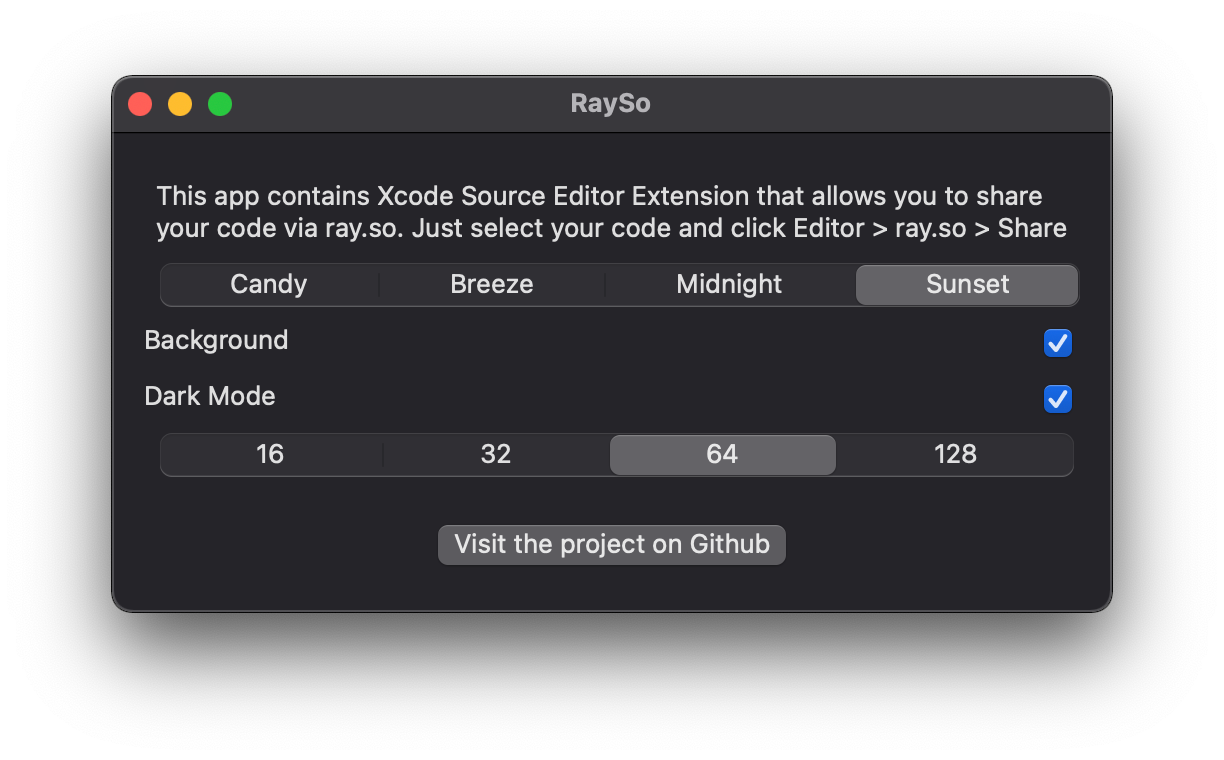
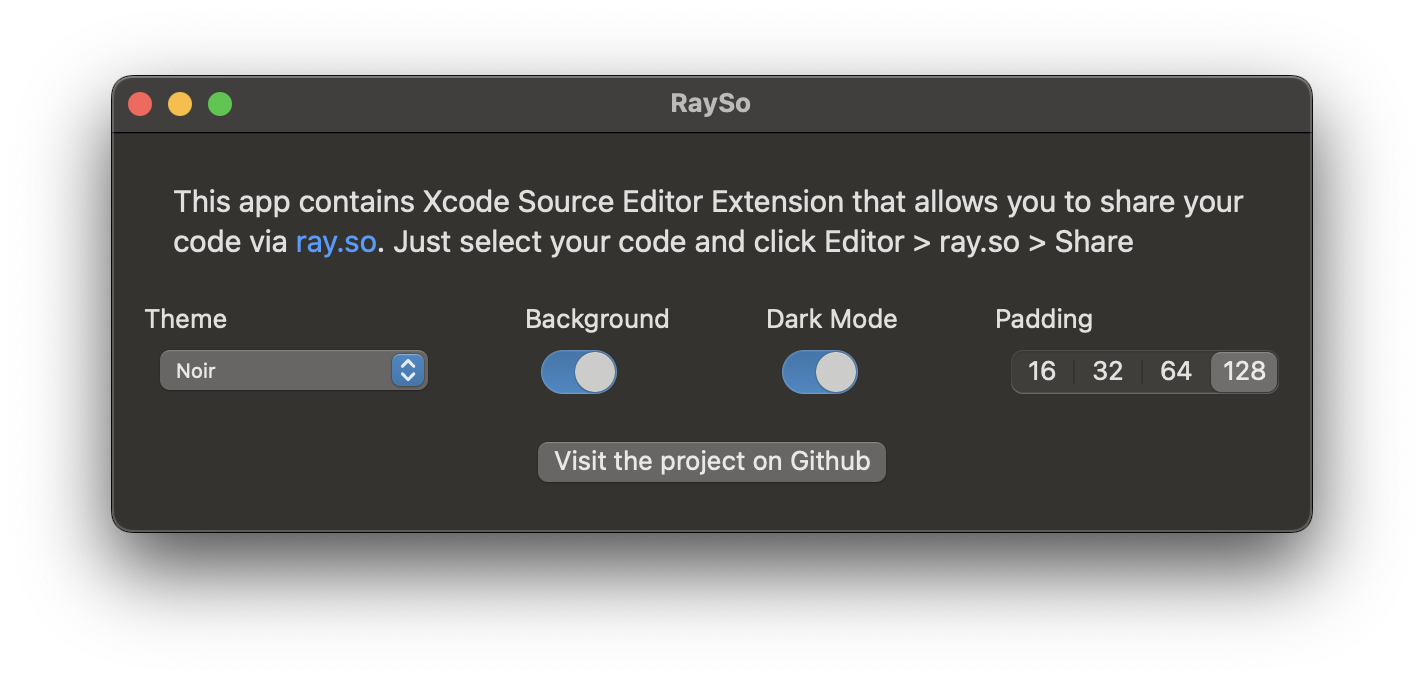
Update themes and main app appearance

Changed region(s): [[0.0621, 0.0926, 0.9314, 0.8338], [0.3415, 0.4324, 0.683, 0.7412], [0.3725, 0.4324, 0.4657, 0.6176]]

diff --git a/RaySo/ContentView.swift b/RaySo/ContentView.swift
@@ -4,11 +4,6 @@
 
 import SwiftUI
 
-enum Colors: String, CaseIterable {
-    
-    case candy, breeze, midnight, sunset
-}
-
 enum Padding: Int, CaseIterable {
     
     case small = 16
@@ -20,10 +15,10 @@ enum Padding: Int, CaseIterable {
 struct ContentView: View {
     
     private static let defaults = UserDefaults(suiteName: Constants.suiteName)!
-    
-    @AppStorage(Constants.colorKey, store: Self.defaults)
-    var color: Colors = .midnight
-    
+
+    @AppStorage(Constants.themeKey, store: Self.defaults)
+    var theme: Theme = .candy
+
     @AppStorage(Constants.backgroundKey, store: Self.defaults)
     var background: Bool = true
     
@@ -37,32 +32,50 @@ struct ContentView: View {
     
     var body: some View {
         VStack {
-            Text("This app contains Xcode Source Editor Extension that allows you to share your code via ray.so. Just select your code and click Editor > ray.so > Share")
-            Picker("", selection: $color) {
-                ForEach(Colors.allCases, id: \.self) { color in
-                    Text(color.rawValue.capitalized)
-                        .font(.caption)
+            Text("This app contains Xcode Source Editor Extension that allows you to share your code via [ray.so](https://ray.so/). Just select your code and click Editor > ray.so > Share")
+                .font(.title3)
+                .lineLimit(nil)
+                .multilineTextAlignment(.leading)
+                .padding(.bottom)
+            HStack(alignment: .top, spacing: 48) {
+                VStack(alignment: .leading) {
+                    Text("Theme")
+                    Picker("", selection: $theme) {
+                        Section(content: {
+                            ForEach(Theme.allCases, id: \.self) { theme in
+                                theme
+                                if theme == .clerk {
+                                    Divider()
+                                }
+                            }
+                        }, header: {
+                            Text("Partners")
+                                .font(.caption)
+                        })
+                    }
                 }
-            }
-            .pickerStyle(SegmentedPickerStyle())
-            HStack {
-                Text("Background")
-                Spacer()
-                Toggle("", isOn: $background)
-            }
-            HStack {
-                Text("Dark Mode")
-                Spacer()
-                Toggle("", isOn: $darkMode)
-            }
-            Picker("", selection: $padding) {
-                ForEach(Padding.allCases, id: \.self) { color in
-                    Text("\(color.rawValue)")
-                        .font(.caption)
+                VStack(alignment: .leading) {
+                    Text("Background")
+                    Toggle("", isOn: $background)
+                        .toggleStyle(.switch)
                 }
+                VStack(alignment: .leading) {
+                    Text("Dark Mode")
+                    Toggle("", isOn: $darkMode)
+                        .toggleStyle(.switch)
+                }
+                VStack(alignment: .leading) {
+                    Text("Padding")
+                    Picker("", selection: $padding) {
+                        ForEach(Padding.allCases, id: \.self) { color in
+                            Text("\(color.rawValue)")
+                                .font(.caption)
+                        }
+                    }
+                }
+                .pickerStyle(SegmentedPickerStyle())
+                .padding(.bottom, 16)
             }
-            .pickerStyle(SegmentedPickerStyle())
-            .padding(.bottom, 16)
             Button("Visit the project on Github") {
                 let url = URL(string: "https://github.com/artemnovichkov/RaySo")!
                 openURL(url)
@@ -70,7 +83,7 @@ struct ContentView: View {
         }
         .padding()
         .onAppear {
-            Self.defaults.register(defaults: [Constants.colorKey: Colors.midnight.rawValue,
+            Self.defaults.register(defaults: [Constants.themeKey: Theme.candy.rawValue,
                                               Constants.backgroundKey: true,
                                               Constants.darkModeKey: true,
                                               Constants.paddingKey: Padding.normal.rawValue])
@@ -78,8 +91,6 @@ struct ContentView: View {
     }
 }
 
-struct ContentView_Previews: PreviewProvider {
-    static var previews: some View {
-        ContentView()
-    }
+#Preview {
+    ContentView()
 }

diff --git a/RaySoExtension/SourceEditorCommand.swift b/RaySoExtension/SourceEditorCommand.swift
@@ -5,18 +5,13 @@
 import Foundation
 import XcodeKit
 import Cocoa
+import UniformTypeIdentifiers
 
 final class SourceEditorCommand: NSObject, XCSourceEditorCommand {
     
     enum CommandError: Swift.Error {
         case urlIsInvalid
     }
-    
-    private static let languageUTIs: [CFString: String] = [
-        kUTTypeSwiftSource: "swift",
-        kUTTypeObjectiveCSource: "objectivec",
-        "com.apple.dt.playground" as CFString: "swift"
-    ]
     
     private let defaults = UserDefaults(suiteName: Constants.suiteName)!
     
@@ -35,7 +30,7 @@ final class SourceEditorCommand: NSObject, XCSourceEditorCommand {
     // MARK: - Private
     
     private func url(forCode code: String, language: String) -> URL? {
-        let color = defaults.string(forKey: Constants.colorKey)
+        let theme = defaults.string(forKey: Constants.themeKey)
         let background = defaults.bool(forKey: Constants.backgroundKey)
         let darkMode = defaults.bool(forKey: Constants.darkModeKey)
         let padding = defaults.integer(forKey: Constants.paddingKey)
@@ -45,7 +40,7 @@ final class SourceEditorCommand: NSObject, XCSourceEditorCommand {
         components.scheme = "https"
         components.host = "ray.so"
         components.queryItems = [
-            .init(name: "colors", value: color),
+            .init(name: "theme", value: theme),
             .init(name: "background", value: "\(background)"),
             .init(name: "darkMode", value: "\(darkMode)"),
             .init(name: "padding", value: "\(padding)"),
@@ -53,10 +48,13 @@ final class SourceEditorCommand: NSObject, XCSourceEditorCommand {
             .init(name: "code", value: base64String),
             .init(name: "language", value: language)
         ]
-        
-        return components.url
+        guard var urlString = components.string else {
+            return nil
+        }
+        urlString = urlString.replacingOccurrences(of: "?", with: "#")
+        return URL(string: urlString)
     }
-    
+
     private func selectedCode(from buffer: XCSourceTextBuffer) -> String {
         var text = ""
         var spacesCount = 0
@@ -82,11 +80,13 @@ final class SourceEditorCommand: NSObject, XCSourceEditorCommand {
     }
     
     private func language(forContentUTI contentUTI: String) -> String {
-        for (uti, language) in Self.languageUTIs {
-            if UTTypeConformsTo(contentUTI as CFString, uti) {
-                return language
-            }
+        switch contentUTI {
+        case UTType.swiftSource.identifier, "com.apple.dt.playground":
+            "swift"
+        case UTType.objectiveCSource.identifier:
+            "objectivec"
+        default:
+            "auto"
         }
-        return "auto"
     }
 }

diff --git a/RaySo/Theme.swift b/RaySo/Theme.swift
@@ -1,0 +1,39 @@
+//
+//  Created by Artem Novichkov on 06.12.2024.
+//
+
+import SwiftUI
+
+enum Theme: String, CaseIterable {
+
+    case vercel
+    case supabase
+    case tailwind
+    case openAI
+    case mintlify
+    case prisma
+    case clerk
+
+    case bitmap
+    case noir
+    case ice
+    case sand
+    case forest
+    case mono
+    case breeze
+    case candy
+    case crimson
+    case falcon
+    case meadow
+    case midnight
+    case raindrop
+    case sunset
+}
+
+extension Theme: View {
+
+    var body: some View {
+        Text(rawValue.capitalized)
+            .font(.caption)
+    }
+}

diff --git a/RaySo/Constants.swift b/RaySo/Constants.swift
@@ -5,7 +5,7 @@
 enum Constants {
     
     static let suiteName = "group.com.artemnovichkov.RaySo"
-    static let colorKey = "color"
+    static let themeKey = "theme"
     static let backgroundKey = "background"
     static let darkModeKey = "dark_mode"
     static let paddingKey = "padding"

diff --git a/RaySo/RaySoApp.swift b/RaySo/RaySoApp.swift
@@ -11,7 +11,7 @@ struct RaySoApp: App {
     var body: some Scene {
         WindowGroup {
             ContentView()
-                .frame(minWidth: 500, maxWidth: 500, minHeight: 240, maxHeight: 240)
+                .frame(minWidth: 600, minHeight: 200)
         }
     }
 }
